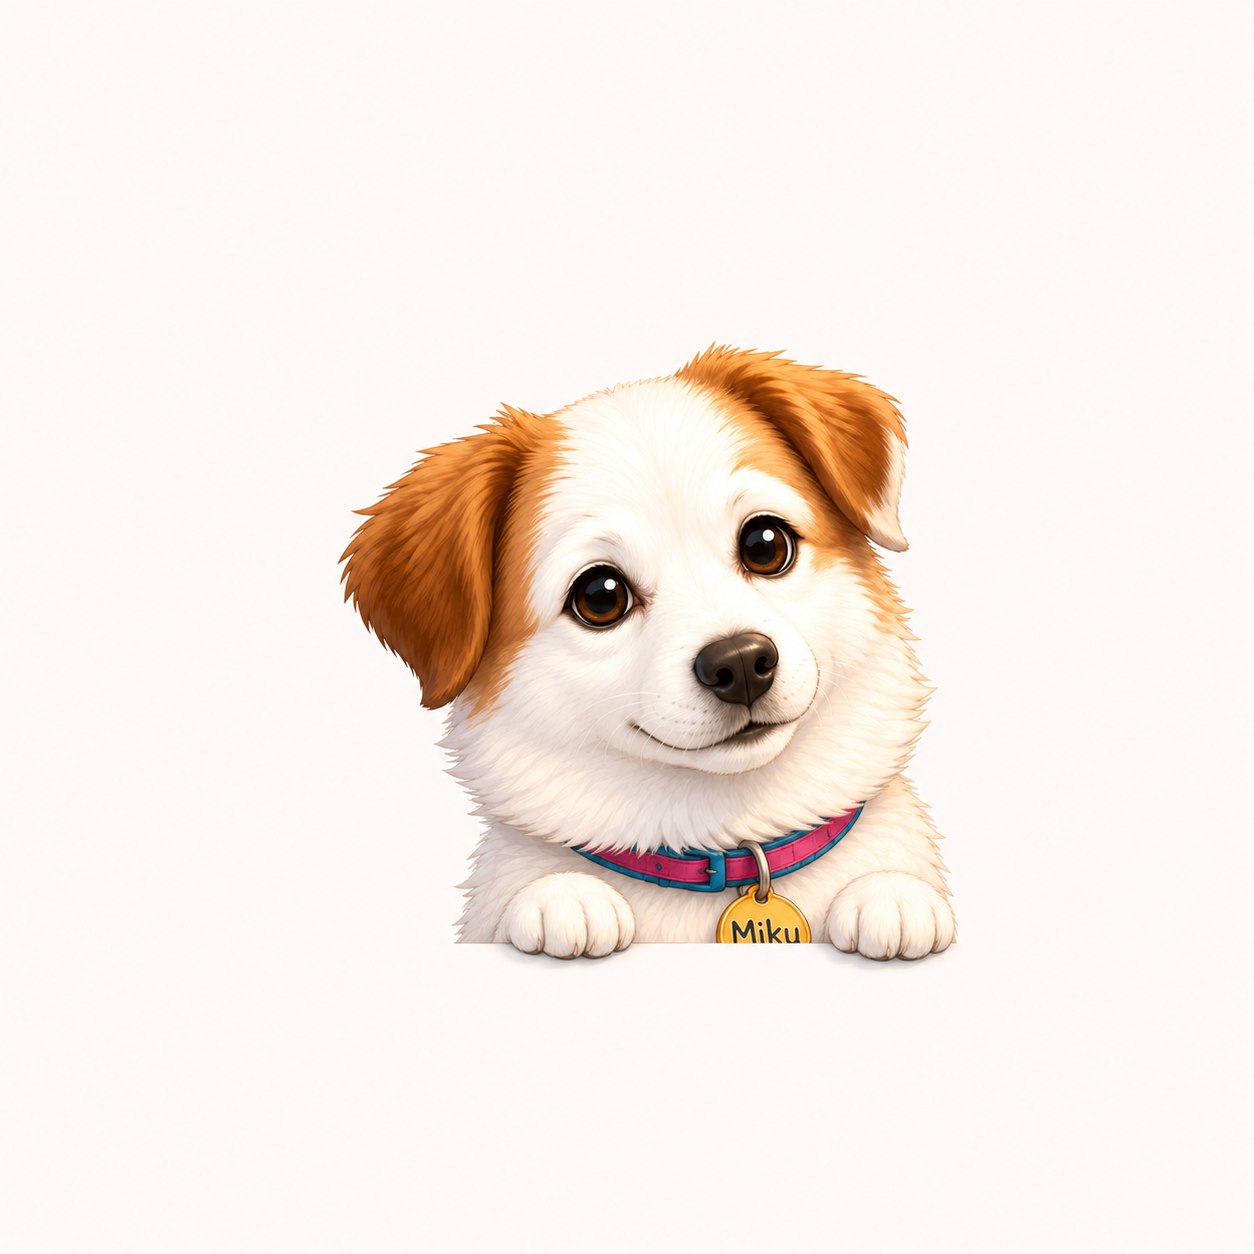
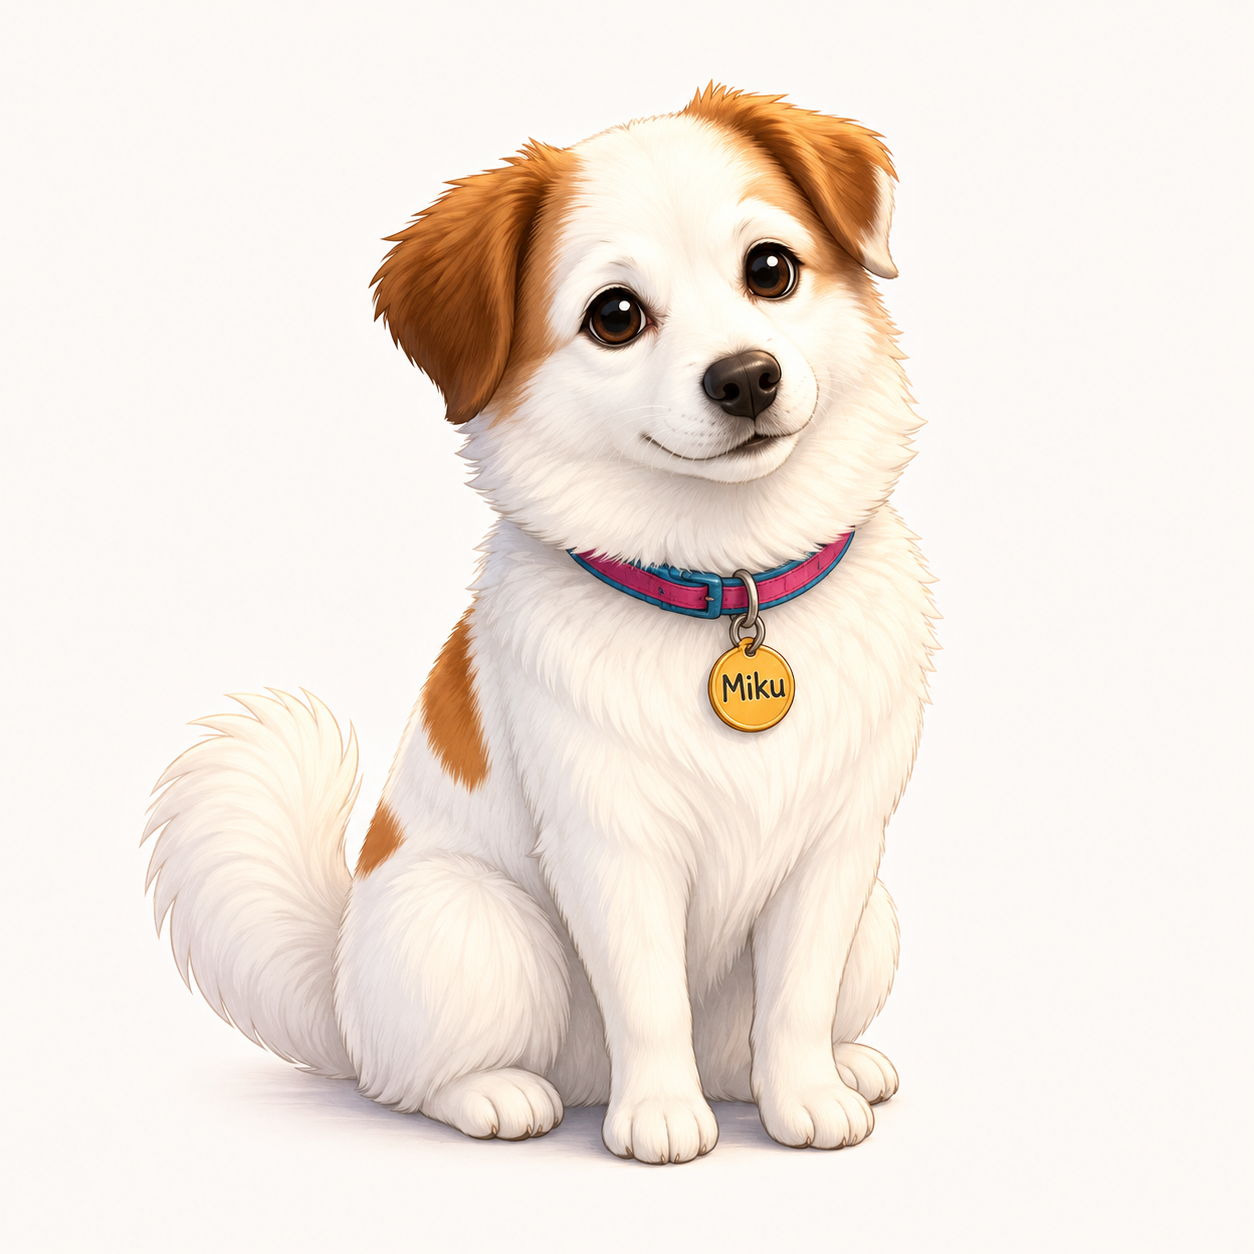
UI: replace action button with Miku image; refine Ask Miku action

Changed region(s): [[0.0933, 0.0622, 0.7775, 0.933]]

diff --git a/app/page.tsx b/app/page.tsx
@@ -455,10 +455,16 @@ export default function Home() {
                 <span className="spin" style={{ width: 18, height: 18, border: "2.5px solid rgba(0,0,0,0.12)", borderTopColor: C.teal, borderRadius: "50%" }} /> Reading…
               </>
             ) : selected.size > 0 ? (
-              // show Miku image instead of the green rectangle
+              // show Miku image and label when messages are selected
               <>
-                {/* eslint-disable-next-line @next/next/no-img-element */}
-                <img src="/miku.png" alt={`Miku — read ${selected.size}`} style={{ width: 56, height: 56, objectFit: "cover", borderRadius: 12, boxShadow: `0 10px 28px ${C.teal}33` }} />
+                <div style={{ display: "inline-flex", alignItems: "center", gap: 12 }}>
+                  {/* eslint-disable-next-line @next/next/no-img-element */}
+                  <img src="/miku.png" alt={`Miku — read ${selected.size}`} style={{ width: 78, height: 78, objectFit: "cover", borderRadius: 14, boxShadow: `0 18px 40px ${C.teal}33` }} />
+                  <div style={{ display: "flex", flexDirection: "column", alignItems: "flex-start", gap: 2 }}>
+                    <span style={{ fontSize: 17, fontWeight: 700, color: C.teal, lineHeight: 1 }}>Ask Miku</span>
+                    <span style={{ fontSize: 13, color: C.ink3 }}>{selected.size} selected</span>
+                  </div>
+                </div>
               </>
             ) : (
               <>Select messages to get a read</>